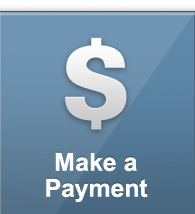
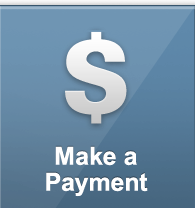
Fixing up main menu button panel:
cropped button images to a more normal size
  tweaked CSS to enlarge the panel

Adding pageshow handler to survey page.

Replaced old back button image with hi-res version.

diff --git a/index.html b/index.html
@@ -40,7 +40,7 @@
     <div class="logo"></div>
     <div data-role="content" class="card-bits" data-theme="d">
       <span class="card-type" data-role="content">Personal Credit Card</span>
-      <div class="card-info" id="last-4-digits-main"></div>
+      <div class="second-left-border"><div class="card-info left-border" id="last-4-digits-main"></div></div>
     </div>
     <div class="card-bits payment-due-notice">
       <div class="ui-grid-a">
@@ -57,26 +57,26 @@
   </div>
 
   <!-- Menu-tastic Main -->
-  <div id="main-list" data-role="content">
-    <div data-role="content" style="line-height: 0.8em">&nbsp;</div>
+  <div id="main-list">
+    <div data-role="content" style="line-height: 1em">&nbsp;</div>
     <!-- Navigation -->
-    <div class="ui-grid-b">
+    <div class="ui-grid-b" id="main-menu-nav">
       <div class="ui-block-a main-menu-item-cont">
         <img alt="Recent Transactions" src="img/menu1.png" class="main-menu-item" onclick='$.mobile.changePage($("#recent-transactions"))' />
       </div>
-      <div class="ui-block-b main-menu-item-cont">
+      <div class="ui-block-b main-menu-item-cont center-button">
         <img alt="Make a Payment" src="img/menu2.png" class="main-menu-item" onclick='javascript:;' />
       </div>
       <div class="ui-block-c main-menu-item-cont">
         <img alt="Find an ATM" src="img/menu3.png" class="main-menu-item" onclick='javascript:;' />
       </div>
-      <div class="ui-block-a main-menu-item-cont">
+      <div class="ui-block-a main-menu-item-cont second-row">
         <img alt="Reward Points" src="img/menu4.png" class="main-menu-item" onclick='javascript:;' />
       </div>
-      <div class="ui-block-b main-menu-item-cont">
+      <div class="ui-block-b main-menu-item-cont second-row center-button">
         <img alt="Contact Us" src="img/menu5.png" class="main-menu-item" onclick='javascript:;' />
       </div>
-      <div class="ui-block-c main-menu-item-cont">
+      <div class="ui-block-c main-menu-item-cont second-row">
         <img alt="Report a Missing Card" src="img/menu6.png" class="main-menu-item" onclick='javascript:;' />
       </div>
     </div>
@@ -98,13 +98,13 @@
     <div class="logo">
       <table width="100%" border="0"><tr>
         <!-- Don't use data-rel="back", just force it to go to the main menu -->
-        <td align="left"><a href="#main-menu" data-role="none"><img src="img/back.png" class="header-button"/></a></td>
+        <td align="left"><a href="#main-menu" data-role="none"><img src="img/back.png" height="28px" class="header-button"/></a></td>
         <td align="right"><a href="" data-role="none"><img src="img/paynow.png" class="header-button-2" height="28px"/></a></td>
       </tr></table>      
     </div>
     <div data-role="content" class="card-bits" data-theme="d">
       <span class="card-type" data-role="content">Personal Credit Card</span>
-      <div class="card-info" id="last-4-digits"></div>
+      <div class="second-left-border"><div class="card-info left-border" id="last-4-digits"></div></div>
     </div>
     <div id="search-terms" class="card-bits search-terms" style="display: none;">
     </div>
@@ -130,12 +130,12 @@
     <div class="logo">
       <table width="100%" border="0"><tr>
         <!-- Don't use data-rel="back", just force it to go to the recent transactions list -->
-        <td align="left"><a href="#recent-transactions" data-role="none"><img src="img/back.png" class="header-button"/></a></td>
+        <td align="left"><a href="#recent-transactions" data-role="none"><img src="img/back.png" height="28px" class="header-button"/></a></td>
       </tr></table>
     </div>
     <div data-role="content" class="card-bits" data-theme="d">
       <span class="card-type" data-role="content">Personal Credit Card</span>
-      <div class="card-info" id="last-4-digits-detail"></div>
+      <div class="second-left-border"><div class="card-info left-border" id="last-4-digits-detail"></div></div>
     </div>
   </div>
 
@@ -189,12 +189,12 @@
   <div data-role="header" data-position="fixed" data-theme="b">
     <div class="logo">
       <table width="100%" border="0"><tr>
-        <td align="left"><a href="#recent-transactions" data-rel="back" data-role="none"><img src="img/back.png" class="header-button"/></a></td>
+        <td align="left"><a href="#recent-transactions" data-rel="back" data-role="none"><img src="img/back.png" height="28px" class="header-button"/></a></td>
       </tr></table>
     </div>
     <div data-role="content" class="card-bits" data-theme="d">
       <span class="card-type" data-role="content">Personal Credit Card</span>
-      <div class="card-info" id="last-4-digits-detail-payment"></div>
+      <div class="second-left-border"><div class="card-info left-border" id="last-4-digits-detail-payment"></div></div>
     </div>
   </div>
 
@@ -225,12 +225,12 @@
   <div data-role="header" data-position="fixed" data-theme="b">
     <div class="logo">
       <table width="100%" border="0"><tr>
-        <td align="left"><a href="#transaction-detail" data-rel="back" data-role="none"><img src="img/back.png" class="header-button"/></a></td>
+        <td align="left"><a href="#transaction-detail" data-rel="back" data-role="none"><img src="img/back.png" height="28px" class="header-button"/></a></td>
       </tr></table>
     </div>
     <div data-role="content" class="card-bits" data-theme="d">
       <span class="card-type" data-role="content">Personal Credit Card</span>
-      <div class="card-info" id="last-4-digits-dispute"></div>
+      <div class="second-left-border"><div class="card-info left-border" id="last-4-digits-dispute"></div></div>
     </div>
   </div>
 
@@ -258,12 +258,13 @@
 <div id="survey" data-role="page">
   <script type="text/javascript">
     $('#survey').on('pagebeforeshow', survey_beforeshow);
+    $('#survey').on('pageshow', survey_onshow);
   </script>
 
   <div data-role="header" data-position="fixed" data-theme="b">
     <div class="logo">
       <table width="100%" border="0"><tr>
-        <td align="left"><a href="#dispute" data-rel="back" data-role="none"><img src="img/back.png" class="header-button"/></a></td>
+        <td align="left"><a href="#dispute" data-rel="back" data-role="none"><img src="img/back.png" height="28px" class="header-button"/></a></td>
       </tr></table>
     </div>
   </div>
@@ -283,7 +284,7 @@
         </div>
         <div class="field no-bor">
           <p>If you feel we can improve this service, please provide your comments.</p>
-          <textarea></textarea>
+          <textarea id="survey-feedback"></textarea>
         </div>
       </div>
     </div>

diff --git a/css/demo.css b/css/demo.css
@@ -85,13 +85,35 @@
 
 /* Main menu */
 
-.main-menu-item-cont {
-    max-height: 95px;
+#main-menu-nav {
+    /*width: 320px;*/
+    padding: 5px;
 }
 
-.main-menu-item {
-    height: 95px;
+div.main-menu-item-cont {
+    height: 106px;
+    max-height: 106px;
+    width: 104px !important;
+    max-width: 104px !important;
+}
+
+div.center-button {
+    width: 101px !important;
+    max-width: 101px !important;
+}
+
+div.second-row {
+    height: 108px;
+    max-height: 108px;
+}
+
+img.main-menu-item {
+    height: 100%;
     width: 100%;
+}
+
+.center-button {
+/*    width: 100px !important;*/
 }
 
 /* Recent transactions and transaction details */
@@ -169,13 +191,21 @@ div.card-bits span.card-type {
     line-height: 2.25em;
     padding-left: 8px !important;
 }
+
 div.card-info {
     float: right;
-    border-left: 1px solid #CCC;
+    border-left: 1px solid #FFF;
     margin: 0;
     padding: 0 0 0 8px;
     height: 31px;
     overflow: hidden;
+    width: 115px;
+}
+div.second-left-border {
+    float: right;
+    padding: 0;
+    margin: 0;
+    border-left: 1px solid #AAA;
 }
 div.card-info div.ui-select {
     float: right;
@@ -194,6 +224,7 @@ div.card-info div.ui-select span.ui-btn-inner {
 div#last-4-digits {
     padding-top: 0;
     margin-top: 0;
+    width: 112px;
 }
 
 div.charge-details,
@@ -449,11 +480,17 @@ ul.rating li {
 
 .right-border {
     border-right: 1px solid #AAA;
+}
+
+div.payment-due-notice div.right-border {
     width: 48% !important;
 }
 
 .left-border {
     border-left: 1px solid #FFF;
+}
+
+div.payment-due-notice div.left-border {
     width: 49% !important;
 }
 
